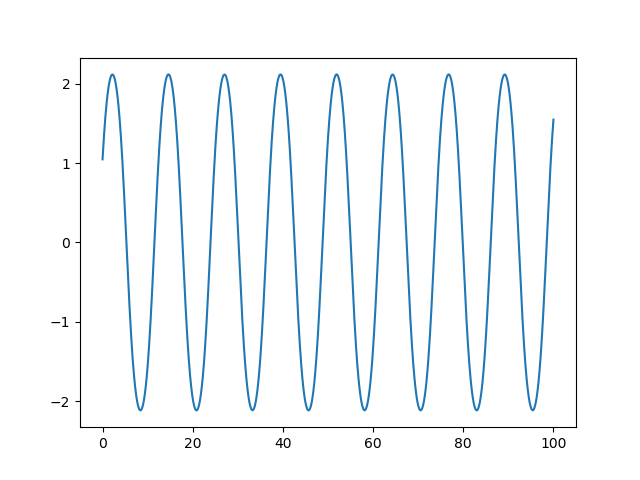
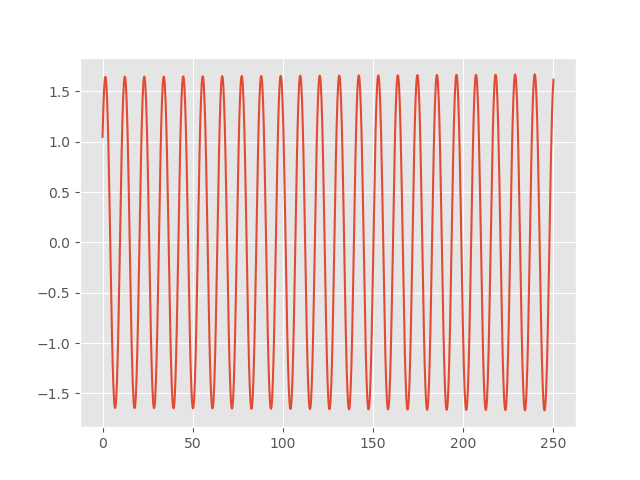
finished animation of Euler-Cauchy

diff --git a/Euler-Cauchy.py b/Euler-Cauchy.py
@@ -1,15 +1,18 @@
 import numpy as np
 import matplotlib.pyplot as plt
+from matplotlib.animation import FuncAnimation
+plt.style.use('ggplot')
 
 v = 0.2  # frequency
-a = 0.3  # amplitude
+a = 0.1  # amplitude
 g = 9.8  # free fall acceleration
 length = 20  # length of rigid and light pendulum
+tMax = 250  # the number of seconds
 
 t0 = 0  # moment
-h = 0.01  # step
+h = 0.2  # step
 y0 = np.pi / 3  # angle
-u0 = 1  # accelerate
+u0 = 0.75  # accelerate
 
 approx_y_list = []
 accurate_y_list = []
@@ -28,7 +31,7 @@ def derivative_func(t, f):
 
 
 t = 0
-while (t < 100):
+while (t < tMax):
     t_list.append(t)
     t += h
 
@@ -46,4 +49,37 @@ while (i < len(t_list)):
 print(accurate_y_list)
 plt.plot(t_list, accurate_y_list)
 plt.savefig('Euler-Cauchy.png')
+plt.show()
+
+# animation
+
+x_horizontal = []
+w_vertical = []
+for y in accurate_y_list:
+    x_horizontal.append(length * np.sin(y))
+    w_vertical.append(length * np.cos(y))
+print(x_horizontal)
+print(w_vertical)
+
+# Scatter plot
+fig = plt.figure()
+axes = fig.add_subplot()
+axes.set_xlim(min(x_horizontal)-1, max(x_horizontal)+1)
+axes.set_ylim(min(w_vertical)-1, max(w_vertical)+1)
+plt.axis('square')
+
+point, = axes.plot([x_horizontal[0]],[w_vertical[0]], 'go')
+line, = axes.plot([x_horizontal[0],0],[w_vertical[0],0])
+
+def ani(coords):
+    point.set_data([coords[0]],[coords[1]])
+    line.set_data([coords[0], 0],[coords[1], 0])
+    return point, line
+
+def frames():
+    for x_pos, w_pos in zip(x_horizontal, w_vertical):
+        yield x_pos, w_pos
+
+ani = FuncAnimation(fig, ani, frames=frames, interval = 50)
+ani.save("Euler-Cauchy.mp4")
 plt.show()
